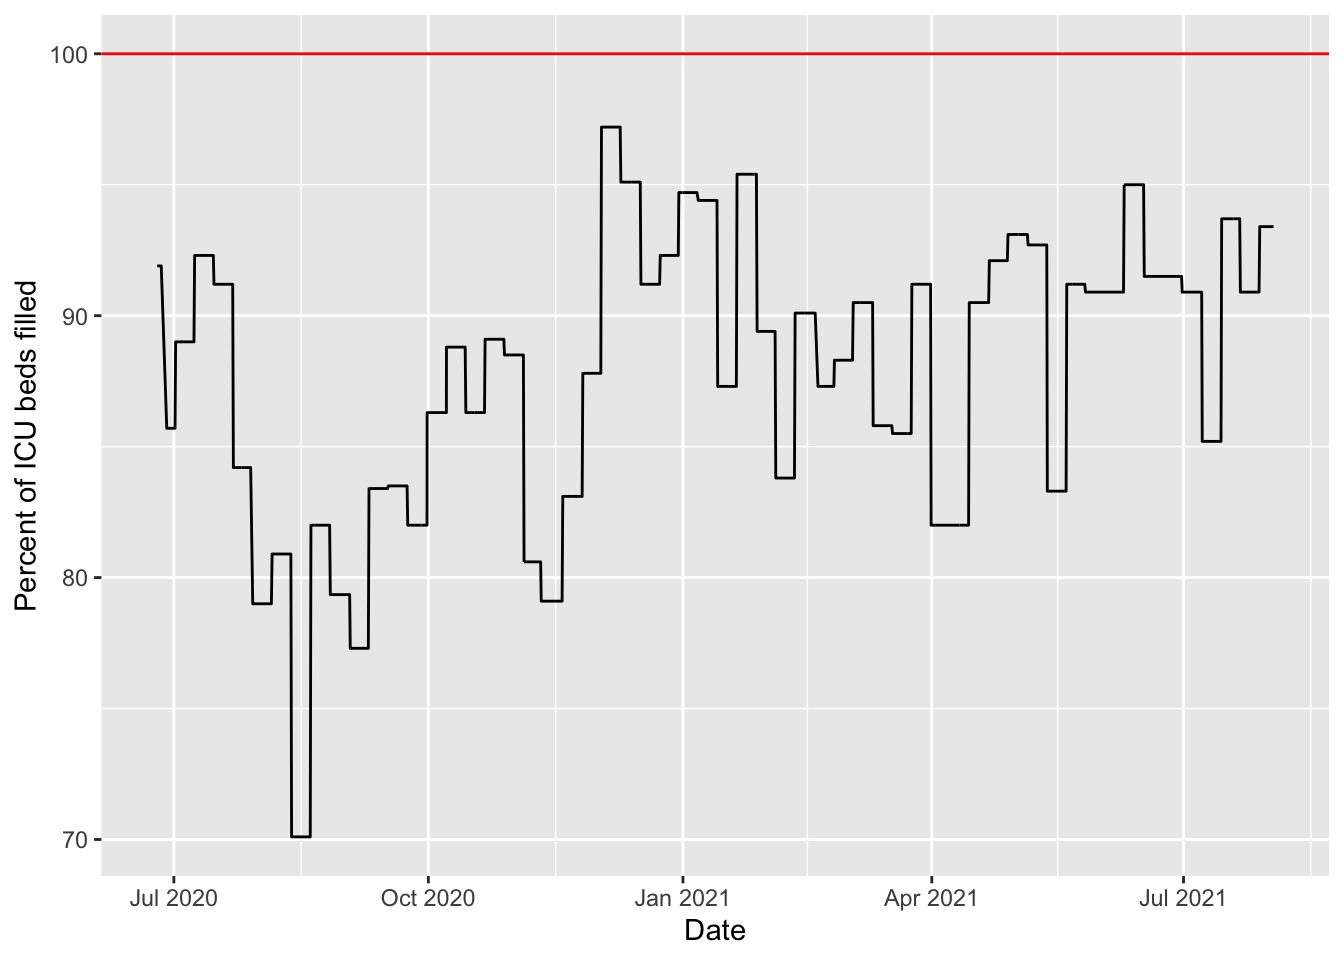
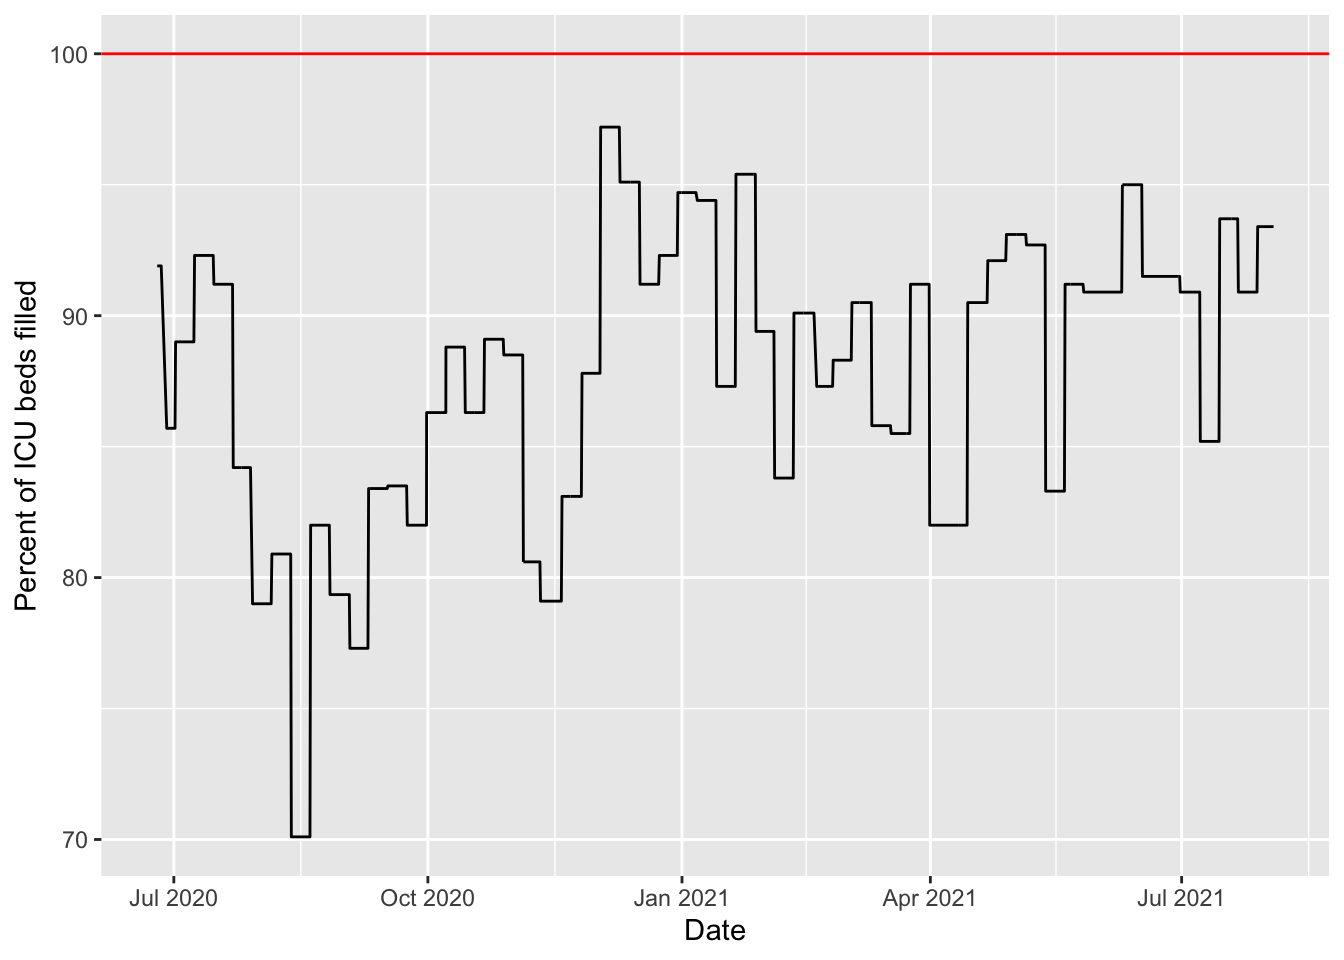
updating site

diff --git a/docs/covid.html b/docs/covid.html
@@ -381,7 +381,7 @@ $(document).ready(function () {
 <li><a href="https://healthdata.gov/dataset/covid-19-reported-patient-impact-and-hospital-capacity-facility">US HHS hospitalization by facility</a></li>
 </ul>
 <hr />
-<p>The following plots are created in R using data from <a href="https://covid19datahub.io" class="uri">https://covid19datahub.io</a> (Guidotti, E., Ardia, D., (2020), “COVID-19 Data Hub”, Working paper, doi: 10.13140/RG.2.2.11649.81763), as well as information from Google and the <a href="https://www.tn.gov/health/cedep/ncov/data/downloadable-datasets.html">state of Tennessee dataset page</a> and plotting and analysis using the <code>forecast</code>, <code>ggplot2</code>, <code>reshape2</code>, and <code>dplyr</code> packages. Plots created on 2021-08-02 18:32:20. I use a seven day rolling average for most plots using the <code>geom_ma</code> function of <code>tidyquant</code>.</p>
+<p>The following plots are created in R using data from <a href="https://covid19datahub.io" class="uri">https://covid19datahub.io</a> (Guidotti, E., Ardia, D., (2020), “COVID-19 Data Hub”, Working paper, doi: 10.13140/RG.2.2.11649.81763), as well as information from Google and the <a href="https://www.tn.gov/health/cedep/ncov/data/downloadable-datasets.html">state of Tennessee dataset page</a> and plotting and analysis using the <code>forecast</code>, <code>ggplot2</code>, <code>reshape2</code>, and <code>dplyr</code> packages. Plots created on 2021-08-03 09:20:18. I use a seven day rolling average for most plots using the <code>geom_ma</code> function of <code>tidyquant</code>.</p>
 <h2 id="cases">
 Cases
 </h2>
@@ -512,7 +512,7 @@ Cases locally
 <h2 id="hospitalization">
 Hospitalization
 </h2>
-<p>As of the last time the data were updated (likely 5 days ago), regional hospitals had 10 ICU beds available of 317 total (so was at 97 percent capacity), and 283 available ventilators out of 416 total, (so was at 32 percent capacity). The hospitals overall had 452 beds available of 3084 total (so was at 85 percent capacity). This is based on 19 acute care hospitals in the East TN region; based on the 14 counties these hospitals are in, these serve at least 1,235,720 people. When a line hits 100% (indicated in red), the local hospitals are theoretically full for that resource (for <em>all</em> patients, not just covid patients), though there is surge capacity on top of this. Note that these data are updated only weekly, so current conditions maybe be much better or worse than these plots show. Data on capacity from Knox County’s dashboard, data on hospitalizations and testing over time from the state data.</p>
+<p>As of the last time the data were updated (likely 6 days ago), regional hospitals had 10 ICU beds available of 317 total (so was at 97 percent capacity), and 283 available ventilators out of 416 total, (so was at 32 percent capacity). The hospitals overall had 452 beds available of 3084 total (so was at 85 percent capacity). This is based on 19 acute care hospitals in the East TN region; based on the 14 counties these hospitals are in, these serve at least 1,235,720 people. When a line hits 100% (indicated in red), the local hospitals are theoretically full for that resource (for <em>all</em> patients, not just covid patients), though there is surge capacity on top of this. Note that these data are updated only weekly, so current conditions maybe be much better or worse than these plots show. Data on capacity from Knox County’s dashboard, data on hospitalizations and testing over time from the state data.</p>
 <p><img src="covid_files/figure-html/hospitalcapacityplot-1.png" width="672" /></p>
 <p>Trends in hospitalization of covid patients over time. The vertical dotted line shows the last day with updated capacity information from Knox County, when there were 10 ICU beds available (ignoring surge capacity) for people in the East Tennessee region. The seven day average is shown.</p>
 <p><img src="covid_files/figure-html/plotsD-1.png" width="672" /></p>
